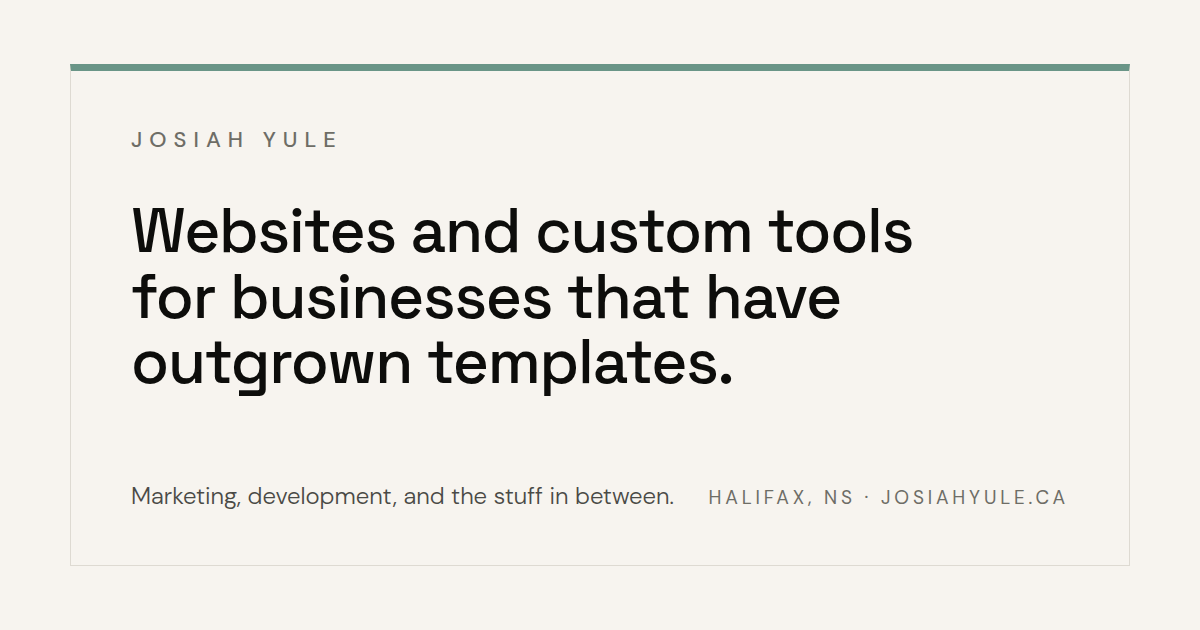
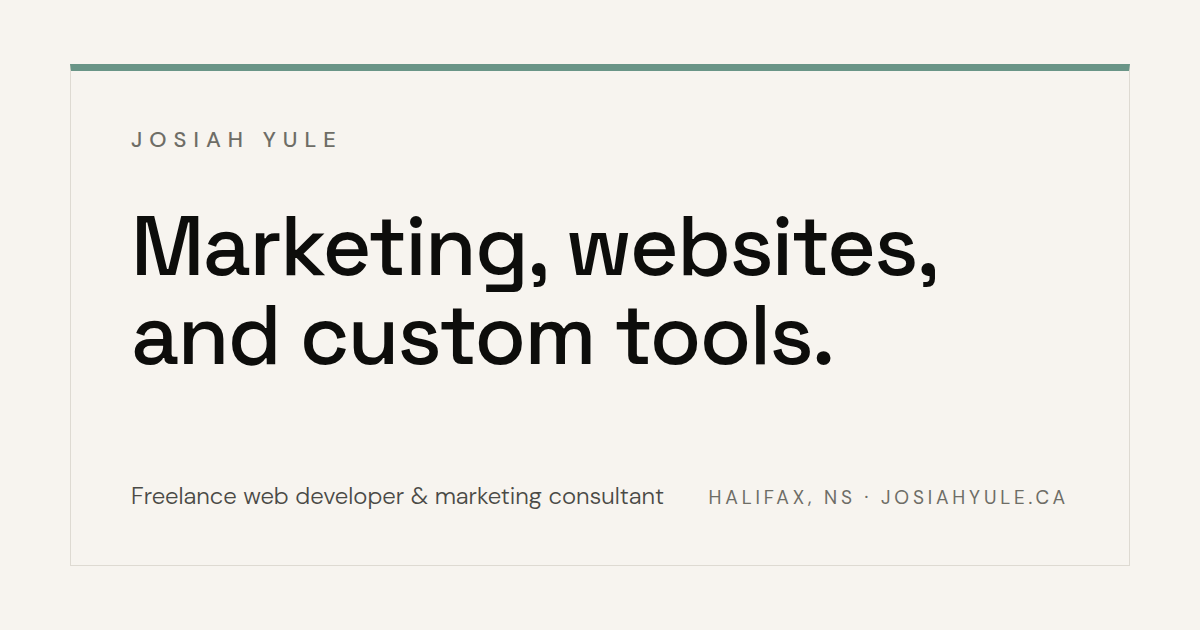
Replace hero and services copy with plainer wording
Drop "that have outgrown templates" everywhere. The hero goes back to
"Marketing, websites, and custom tools." with the proof strip and bio
carrying the specifics; meta descriptions and the og-image match.

Claude-Session: https://claude.ai/code/session_01RRJN7NTTksT68kQaqCs9oc

Changed region(s): [[0.0925, 0.3317, 0.8017, 0.6333], [0.0925, 0.754, 0.555, 0.8143]]

diff --git a/docs/index.html b/docs/index.html
@@ -6,14 +6,14 @@
   <title>Josiah Yule. Marketing, websites, and custom tools.</title>
   <link rel="preload" href="fonts/spacegrotesk-latin.woff2" as="font" type="font/woff2" crossorigin>
   <link rel="preload" href="fonts/dmsans-latin.woff2" as="font" type="font/woff2" crossorigin>
-  <meta name="description" content="Josiah Yule builds websites, automation, and internal tools for service businesses that have outgrown templates. Based in Halifax, NS.">
+  <meta name="description" content="Josiah Yule builds websites, automation, and internal tools for service businesses. Based in Halifax, NS.">
   <meta property="og:type" content="website">
   <meta property="og:url" content="https://www.josiahyule.ca">
   <meta property="og:title" content="Josiah Yule. Marketing, websites, and custom tools.">
-  <meta property="og:description" content="Josiah Yule builds websites, automation, and internal tools for service businesses that have outgrown templates. Based in Halifax, NS.">
+  <meta property="og:description" content="Josiah Yule builds websites, automation, and internal tools for service businesses. Based in Halifax, NS.">
   <meta name="twitter:card" content="summary_large_image">
   <meta name="twitter:title" content="Josiah Yule. Marketing, websites, and custom tools.">
-  <meta name="twitter:description" content="Josiah Yule builds websites, automation, and internal tools for service businesses that have outgrown templates. Based in Halifax, NS.">
+  <meta name="twitter:description" content="Josiah Yule builds websites, automation, and internal tools for service businesses. Based in Halifax, NS.">
   <meta name="color-scheme" content="light dark">
   <link rel="canonical" href="https://www.josiahyule.ca">
   <meta name="theme-color" content="#f7f4ef" media="(prefers-color-scheme: light)">
@@ -69,8 +69,8 @@
   <!-- HERO -->
   <header class="hero">
     <p class="hero-status"><span class="status-dot" aria-hidden="true"></span>Available for new projects &middot; Halifax, NS</p>
-    <h1>Websites and custom tools for businesses that have outgrown templates.</h1>
-    <p class="hero-bio">I design and build websites, automations, and internal dashboards, working where marketing and development meet. In the past year I&rsquo;ve shipped three recruitment platforms with live job boards, a monitoring pipeline that sent recruiters over 6,000 alerts in its first month, and a KPI dashboard that replaced a manual monthly report.</p>
+    <h1>Marketing, websites, and custom tools.</h1>
+    <p class="hero-bio">I design and build websites, automations, and internal dashboards for businesses. This past year I built three recruitment platforms with live job boards, a monitoring pipeline that sent recruiters over 6,000 alerts in its first month, and a KPI dashboard that replaced a manual monthly report.</p>
     <div class="hero-actions">
       <a href="#work" class="btn btn-filled">See selected work</a>
       <a href="#contact" class="btn btn-outline">Start a project</a>
@@ -129,7 +129,7 @@
           <div class="service-hero-main">
             <h3>Website<br>Development.</h3>
             <p class="service-hero-lede">A good website is still one of the highest-leverage investments a small business can make.</p>
-            <p class="service-hero-body">I build websites from scratch for businesses that have outgrown templates. Every project is designed around how your customers actually find and evaluate you, not what a theme can do out of the box.</p>
+            <p class="service-hero-body">I build websites from scratch for small service businesses. Every project is designed around how your customers find and evaluate you, not what a theme can do out of the box.</p>
             <a href="#contact" class="service-hero-cta">Start a project</a>
           </div>
           <div class="service-hero-meta">
